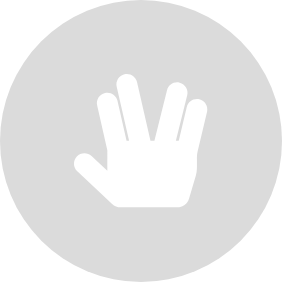
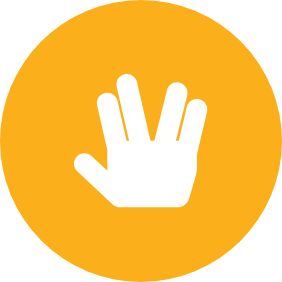
Changed CSS styling over all

diff --git a/src/App.vue b/src/App.vue
@@ -142,7 +142,7 @@ export default {
 }
 
 body {
-  background-image: linear-gradient(45deg, #667eea 0%, #764ba2 100%);
+  background: #242424;
   font-family: "Montserrat", sans-serif;
   font-size: 1.1em;
   padding: 0px;
@@ -165,7 +165,7 @@ h1 {
 }
 
 .header {
-  background: #242424;
+  background: #D60A0A;
   color: white;
   font-weight: 700;
   padding: 10px;
@@ -212,7 +212,7 @@ h1 {
 
 .playerChose,
 .opponentChose {
-  color: #667eea;
+  color: #D60A0A;
   font-weight: 700;
   margin: 5px;
 }
@@ -229,8 +229,8 @@ h1 {
 }
 
 .scoreboard h2 {
-  color: #667eea;
-  border-bottom: 2px solid #667eea;
+  color: #D60A0A;
+  border-bottom: 2px solid #D60A0A;
   font-size: 1.2rem;
 }
 
@@ -239,7 +239,7 @@ h1 {
 }
 
 .score p span, .rules span {
-  color: #667eea;
+  color: #D60A0A;
   font-weight: 700;
 }
 
@@ -271,7 +271,7 @@ h1 {
 
 .buttons button:hover {
   cursor: pointer;
-  background: #764ba2;
+  background: #D60A0A;
   transition: 0.1s;
 }
 

diff --git a/README.md b/README.md
@@ -1,4 +1,5 @@
-# vue-rock-paper-scissors
+# vue-rock-paper-scissors-lizard-spock
+This a basic game created with simple logic, but it does the trick and is still very fun!
 
 ## Tech stack
 HTML, CSS, project made with Vue 3.
